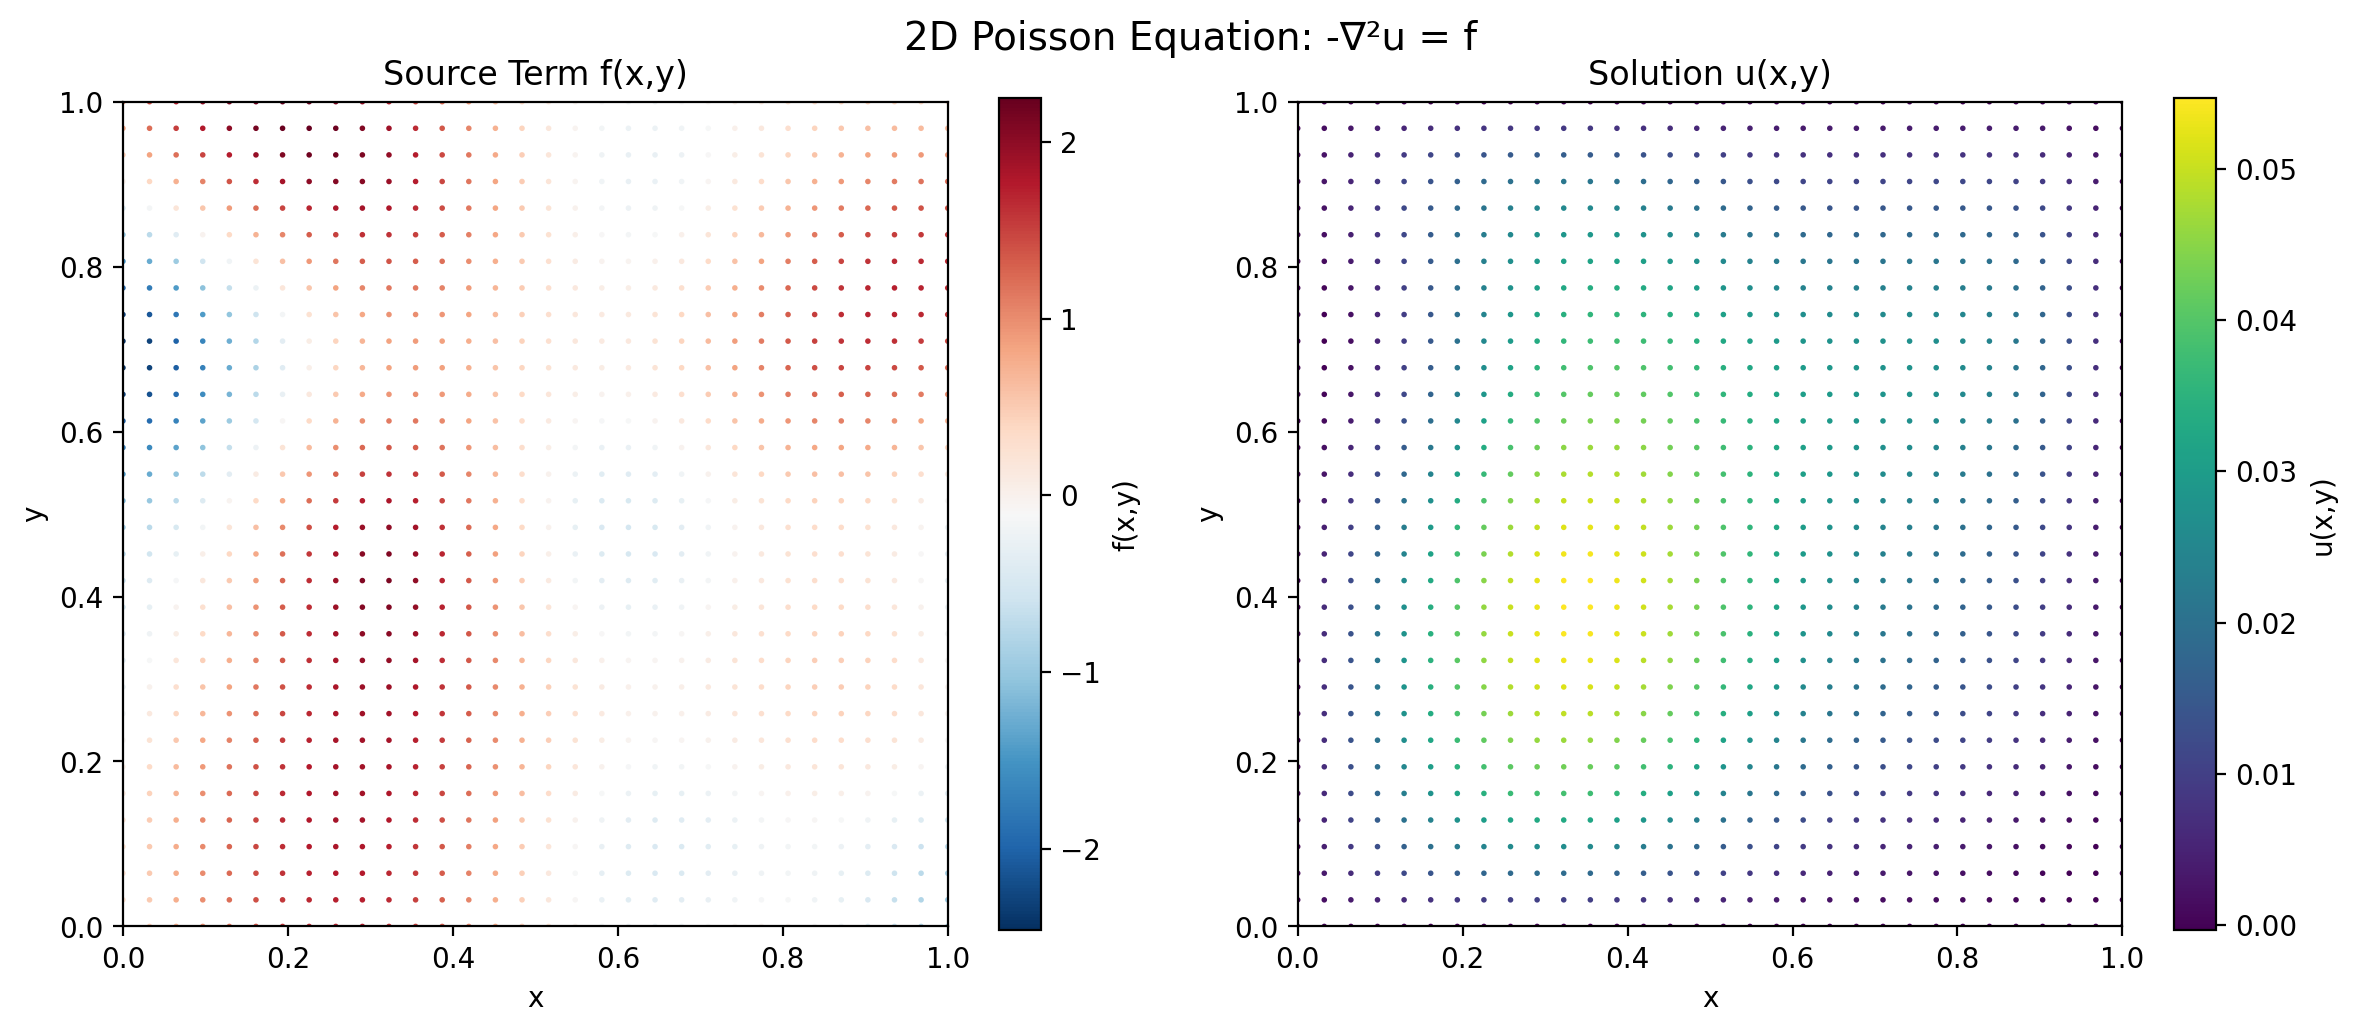
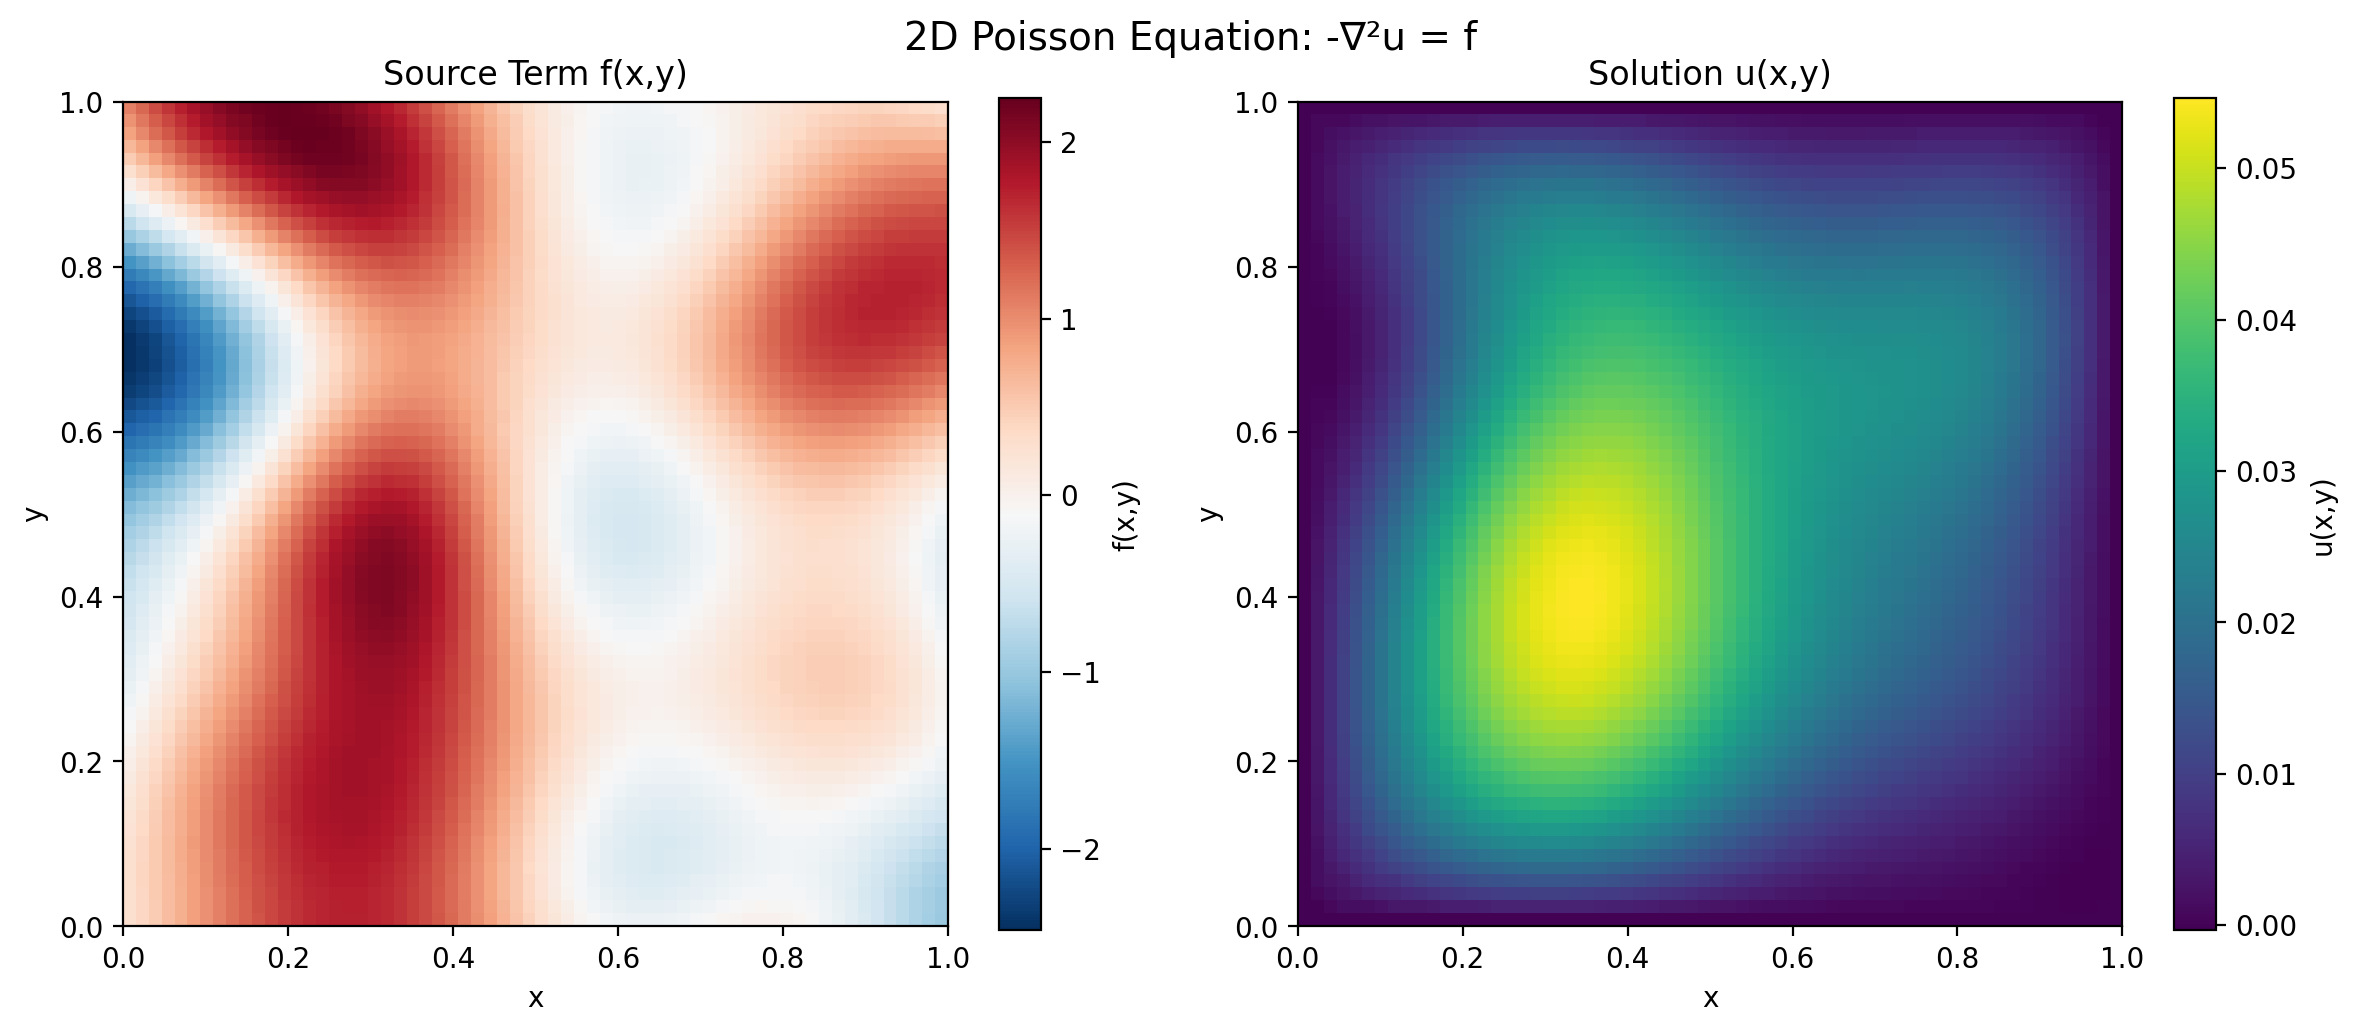
Switch to imshow with grid interpolation for plots
Replaced scatter plots with imshow visualizations by interpolating unstructured mesh data onto a regular grid using scipy's griddata. This improves the clarity of the source term and solution field plots for the 2D Poisson equation.

diff --git a/plot_sample.py b/plot_sample.py
@@ -27,32 +27,35 @@ def plot_poisson_sample(sample, save_path="sample_plot.png"):
     source = sample["source_term"]   # Shape: (N,)
     domain_size = sample["domain_size"]  # [Lx, Ly]
     
-    # Create scatter plots since we have unstructured mesh data
+    # Create regular grid for imshow plotting
+    from scipy.interpolate import griddata
+    
+    # Define grid resolution
+    grid_size = 64
+    x_grid = np.linspace(0, domain_size[0], grid_size)
+    y_grid = np.linspace(0, domain_size[1], grid_size)
+    X_grid, Y_grid = np.meshgrid(x_grid, y_grid)
+    
+    # Interpolate scattered data onto regular grid
+    coords_2d = coordinates[:, :2]  # Use only x,y coordinates
+    source_grid = griddata(coords_2d, source, (X_grid, Y_grid), method='linear', fill_value=0)
+    solution_grid = griddata(coords_2d, solution, (X_grid, Y_grid), method='linear', fill_value=0)
+    
     # Plot 1: Source term f(x,y)
-    scatter1 = ax1.scatter(
-        coordinates[:, 0], coordinates[:, 1], 
-        c=source, cmap="RdBu_r", s=1, rasterized=True
-    )
+    im1 = ax1.imshow(source_grid, extent=[0, domain_size[0], 0, domain_size[1]], 
+                     origin='lower', cmap="RdBu_r", aspect='equal')
     ax1.set_xlabel("x")
     ax1.set_ylabel("y") 
     ax1.set_title("Source Term f(x,y)")
-    ax1.set_aspect("equal")
-    ax1.set_xlim(0, domain_size[0])
-    ax1.set_ylim(0, domain_size[1])
-    plt.colorbar(scatter1, ax=ax1, label="f(x,y)")
+    plt.colorbar(im1, ax=ax1, label="f(x,y)")
     
     # Plot 2: Solution field u(x,y)
-    scatter2 = ax2.scatter(
-        coordinates[:, 0], coordinates[:, 1],
-        c=solution, cmap="viridis", s=1, rasterized=True
-    )
+    im2 = ax2.imshow(solution_grid, extent=[0, domain_size[0], 0, domain_size[1]], 
+                     origin='lower', cmap="viridis", aspect='equal')
     ax2.set_xlabel("x")
     ax2.set_ylabel("y")
     ax2.set_title("Solution u(x,y)")
-    ax2.set_aspect("equal")
-    ax2.set_xlim(0, domain_size[0])
-    ax2.set_ylim(0, domain_size[1])
-    plt.colorbar(scatter2, ax=ax2, label="u(x,y)")
+    plt.colorbar(im2, ax=ax2, label="u(x,y)")
     
     plt.suptitle("2D Poisson Equation: -∇²u = f", fontsize=14)
     plt.tight_layout()
